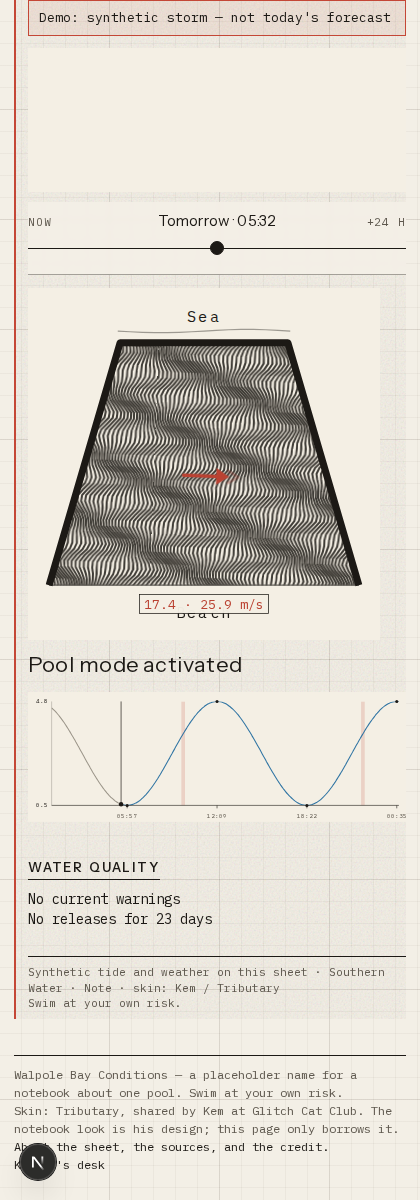
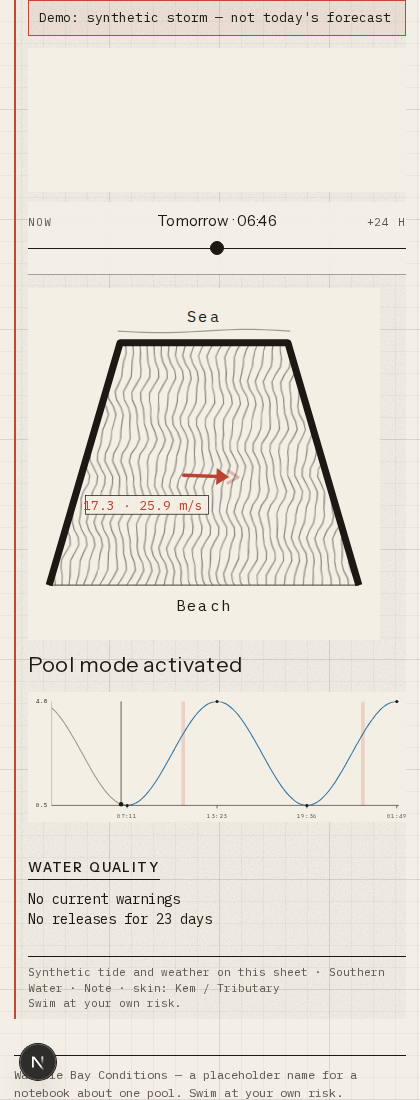
Sea wash over wall, gradual beach, airier plan chop
Split cross-section wave strokes at the wall, fill the wall body with paper,
and draw sea-mode crest wash on top so water reads as overflowing the crest.
Restore the quadratic chalk beach profile from the first ink section.
Thin plan chop strokes and place wind speed beside the arrow again.

diff --git a/components/plan-view.tsx b/components/plan-view.tsx
@@ -44,60 +44,20 @@ function poolInteriorPath(corners: { nw: PlanPoint; ne: PlanPoint; se: PlanPoint
   return `${pathOf([nw, ne, se, sw])} Z`;
 }
 
-type SpeedLabelPlacement = { x: number; y: number; anchor: "middle"; width: number };
-
-const POOL_STROKE_CLEAR = 8;
-function pointInPlanPool(point: PlanPoint, poly: PlanPoint[]): boolean {
-  let inside = false;
-  for (let i = 0, j = poly.length - 1; i < poly.length; j = i++) {
-    const xi = poly[i].x;
-    const yi = poly[i].y;
-    const xj = poly[j].x;
-    const yj = poly[j].y;
-    const intersect =
-      yi > point.y !== yj > point.y && point.x < ((xj - xi) * (point.y - yi)) / (yj - yi + 1e-12) + xi;
-    if (intersect) inside = !inside;
-  }
-  return inside;
-}
-
-function speedLabelRect(box: SpeedLabelPlacement): { left: number; right: number; top: number; bottom: number } {
-  const left = box.x - box.width / 2;
-  return { left, right: left + box.width, top: box.y - 12, bottom: box.y + 4 };
-}
-
-function speedLabelOutsidePool(
-  bounds: { nw: PlanPoint; ne: PlanPoint; se: PlanPoint; sw: PlanPoint },
+function speedLabelNearArrow(
+  at: PlanPoint,
+  travel: number,
+  meanPx: number,
   text: string,
-): SpeedLabelPlacement {
-  const width = Math.max(58, text.length * 6.4 + 14);
-  const poly = [bounds.nw, bounds.ne, bounds.se, bounds.sw];
-  const southY = Math.max(bounds.sw.y, bounds.se.y);
-  const box: SpeedLabelPlacement = { x: VIEW_W / 2, y: southY + POOL_STROKE_CLEAR + 12, anchor: "middle", width };
-
-  const clear = (rect: { left: number; right: number; top: number; bottom: number }): boolean => {
-    if (rect.top < southY + POOL_STROKE_CLEAR) return false;
-    const corners: PlanPoint[] = [
-      { x: rect.left, y: rect.top },
-      { x: rect.right, y: rect.top },
-      { x: rect.left, y: rect.bottom },
-      { x: rect.right, y: rect.bottom },
-      { x: (rect.left + rect.right) / 2, y: (rect.top + rect.bottom) / 2 },
-    ];
-    return corners.every((p) => !pointInPlanPool(p, poly));
-  };
-
-  let rect = speedLabelRect(box);
-  while (!clear(rect) && box.y < VIEW_H - 6) {
-    box.y += 2;
-    rect = speedLabelRect(box);
-  }
-  return box;
-}
-
-function planBeachLabelY(bounds: { sw: PlanPoint; se: PlanPoint }): number {
-  const southY = Math.max(bounds.sw.y, bounds.se.y);
-  return southY + 28;
+): { x: number; y: number; anchor: "start" | "end"; width: number } {
+  const width = Math.max(52, text.length * 6.2 + 12);
+  const rad = (travel * Math.PI) / 180;
+  const cross = rad + Math.PI / 2;
+  const side = 14 + meanPx * 0.38;
+  const labelX = at.x + Math.sin(cross) * side;
+  const labelY = at.y - Math.cos(cross) * side;
+  const anchor = Math.sin(cross) >= 0 ? "start" : "end";
+  return { x: labelX, y: labelY, anchor, width };
 }
 
 function WindGlyph({
@@ -105,13 +65,11 @@ function WindGlyph({
   travel,
   avgMs,
   gustMs,
-  bounds,
 }: {
   at: PlanPoint;
   travel: number;
   avgMs: number;
   gustMs: number | null;
-  bounds: { nw: PlanPoint; ne: PlanPoint; se: PlanPoint; sw: PlanPoint };
 }) {
   const mark = windGlyphMark(avgMs, gustMs);
   const { mean, gust, meanWidth, gustWidth, head, meanColour, gustColour } = mark;
@@ -122,8 +80,8 @@ function WindGlyph({
   const showGust = gust > mean + 0.5;
   const speedLabel = gustMs != null && gustMs > avgMs + 0.05 ? `${avgMs.toFixed(1)} · ${gustMs.toFixed(1)}` : avgMs.toFixed(1);
   const caption = `${speedLabel} m/s`;
-  const box = speedLabelOutsidePool(bounds, caption);
-  const rectX = box.x - box.width / 2;
+  const box = speedLabelNearArrow(at, travel, mean, caption);
+  const rectX = box.anchor === "start" ? box.x - 5 : box.x - box.width + 5;
   return (
     <>
       <g
@@ -150,7 +108,7 @@ function WindGlyph({
         <line x1={0} y1={tail} x2={0} y2={tip + head * 0.55} stroke={meanColour} strokeWidth={meanWidth} strokeLinecap="round" />
         <path d={`M 0 ${tip.toFixed(1)} L ${(-wing).toFixed(1)} ${(tip + head).toFixed(1)} H ${wing.toFixed(1)} Z`} fill={meanColour} />
       </g>
-      <g className="wind-speed-label" data-outside-pool="true">
+      <g className="wind-speed-label" data-near-arrow="true">
         <rect
           x={rectX}
           y={box.y - 12}
@@ -222,9 +180,9 @@ function RoughnessField({
       Math.hypot(se.x - mid.x, se.y - mid.y),
       Math.hypot(sw.x - mid.x, sw.y - mid.y),
     );
-    const half = reach * 2.35;
-    const stepY = 3;
-    const stepX = 4;
+    const half = reach * 2.1;
+    const stepY = 7;
+    const stepX = 9;
 
     for (let ly = -half; ly <= half; ly += stepY) {
       let rough = 0;
@@ -232,15 +190,15 @@ function RoughnessField({
         const sample = roughnessAt(localToPlan(lx, ly, mid, travel, layout), chopLevel, quietForRough);
         rough = Math.max(rough, sample + windBoost * (1 - sample * 0.35));
       }
-      if (rough < 0.05) continue;
-      const amp = (0.85 + rough * 3.1) * (1 + windBoost * 0.5);
-      const drift = phase + ly * 0.05;
-      const d = waveScanline(-half, half, ly, amp, drift, 3 + rough * 2);
+      if (rough < 0.08) continue;
+      const amp = (0.55 + rough * 2.2) * (1 + windBoost * 0.35);
+      const drift = phase + ly * 0.04;
+      const d = waveScanline(-half, half, ly, amp, drift, 5 + rough * 1.5);
       if (d) {
         rows.push({
           d,
-          opacity: Math.min(0.92, 0.3 + rough * 0.62),
-          width: 0.9 + rough * 0.75,
+          opacity: Math.min(0.52, 0.14 + rough * 0.38),
+          width: 0.55 + rough * 0.45,
         });
       }
     }
@@ -345,19 +303,11 @@ function PlanDrawing({
         opacity={submerged ? 0.5 : 1}
       />
       <path d={`M ${label(sw)} L ${label(se)}`} fill="none" stroke={INK} strokeWidth="1" opacity="0.65" />
-      <text
-        x={VIEW_W / 2}
-        y={planBeachLabelY({ sw, se })}
-        textAnchor="middle"
-        fill={INK}
-        fontSize="13"
-        fontFamily={FONT}
-        letterSpacing="0.14em"
-      >
+      <text x={VIEW_W / 2} y={sw.y + 22} textAnchor="middle" fill={INK} fontSize="13" fontFamily={FONT} letterSpacing="0.14em">
         Beach
       </text>
       {travel != null && avgMs != null ? (
-        <WindGlyph at={mid} travel={travel} avgMs={avgMs} gustMs={gustMs} bounds={{ nw, ne, se, sw }} />
+        <WindGlyph at={mid} travel={travel} avgMs={avgMs} gustMs={gustMs} />
       ) : null}
     </svg>
   );

diff --git a/components/section-canvas.tsx b/components/section-canvas.tsx
@@ -3,6 +3,8 @@
 import { useEffect, useRef } from "react";
 import {
   RATIO_SUM,
+  WALL_U0,
+  WALL_U1,
   chalkSchematic,
   chopMotion,
   frameLevels,
@@ -82,9 +84,9 @@ function chopOffset(u: number, timeS: number, level: SectionInput["chopLevel"], 
 }
 
 function biasAt(u: number, pool: number, sea: number): number {
-  if (u <= 7.5) return pool;
-  if (u >= 8.1) return sea;
-  return pool + ((sea - pool) * (u - 7.5)) / 0.6;
+  if (u <= WALL_U0) return pool;
+  if (u >= WALL_U1) return sea;
+  return pool + ((sea - pool) * (u - WALL_U0)) / (WALL_U1 - WALL_U0);
 }
 
 function makeGrain(w: number, h: number): HTMLCanvasElement {
@@ -149,19 +151,19 @@ function paint(
   ctx.drawImage(grain, 0, 0, bw, bh);
   ctx.setTransform(dpr * scale, 0, 0, dpr * scale, 0, 0);
 
-  stroke(ctx, chalkPoints(0, 7.5, 0.06), 0.8, 0.16);
-  stroke(ctx, chalkPoints(8.1, RATIO_SUM, 0.06), 0.8, 0.16);
-  stroke(ctx, chalkPoints(0, 7.5, 0.12), 0.7, 0.09);
-  stroke(ctx, chalkPoints(8.1, RATIO_SUM, 0.12), 0.7, 0.09);
+  stroke(ctx, chalkPoints(0, WALL_U0, 0.06), 0.8, 0.16);
+  stroke(ctx, chalkPoints(WALL_U1, RATIO_SUM, 0.06), 0.8, 0.16);
+  stroke(ctx, chalkPoints(0, WALL_U0, 0.12), 0.7, 0.09);
+  stroke(ctx, chalkPoints(WALL_U1, RATIO_SUM, 0.12), 0.7, 0.09);
 
   const surface = (u: number) => {
     const bias = biasAt(u, section.poolBias, section.seaBias);
     const chop = chopOffset(u, timeS, section.chopLevel, bias);
     if (section.mode === "sea") {
-      const ampScale = u < 7.5 ? 0.5 + 0.5 * (u / 7.5) : 1;
+      const ampScale = u < WALL_U0 ? 0.5 + 0.5 * (u / WALL_U0) : 1;
       return section.seaDraw + swellOffset(u, timeS, section.waveAmp * ampScale, section.wavePeriodS) + chop;
     }
-    if (u < 7.5) {
+    if (u < WALL_U0) {
       if (section.mode === "pool" || section.mode === "falling") {
         return heldSurface(frame.pool, heldRipple(u, timeS, section.chopLevel, section.heldAmp));
       }
@@ -186,14 +188,29 @@ function paint(
     }
   };
 
-  if (section.mode === "sea") band(shore, RATIO_SUM);
-  else {
-    band(Math.min(shore, 7.5), 7.5);
-    band(8.1, RATIO_SUM);
+  band(Math.min(shore, WALL_U0), WALL_U0);
+  band(WALL_U1, RATIO_SUM);
+
+  const wallX = xOf(WALL_U0);
+  const wallW = xOf(WALL_U1) - wallX;
+  const wallY = yOf(1);
+  const wallH = yOf(-0.015) - wallY;
+
+  ctx.fillStyle = PAPER;
+  ctx.globalAlpha = 1;
+  ctx.fillRect(wallX, wallY, wallW, wallH);
+
+  if (section.mode === "sea") {
+    drawRuns(ctx, WALL_U0, WALL_U1, (u) => yOf(surface(u)), 1.35, 0.88);
+    for (let i = 1; i <= motion.lines; i++) {
+      const depth = 4 + i * 4;
+      const alpha = Math.max(0.08, 0.38 - i * 0.06);
+      drawRuns(ctx, WALL_U0, WALL_U1, (u) => yOf(surface(u)) + depth, 0.75, alpha);
+    }
   }
 
-  stroke(ctx, chalkPoints(0, 7.5, 0), 1.75, 0.95);
-  stroke(ctx, chalkPoints(8.1, RATIO_SUM, 0), 1.75, 0.95);
+  stroke(ctx, chalkPoints(0, WALL_U0, 0), 1.75, 0.95);
+  stroke(ctx, chalkPoints(WALL_U1, RATIO_SUM, 0), 1.75, 0.95);
 
   const dryUntil = shore;
   ctx.strokeStyle = INK;
@@ -219,25 +236,21 @@ function paint(
     ctx.lineWidth = 0.7;
     ctx.globalAlpha = 0.42 + frame.sheet * 0.35;
     ctx.beginPath();
-    ctx.moveTo(xOf(8.1), Math.min(ySea, yCrest));
-    ctx.lineTo(xOf(7.5), yCrest + 0.3);
+    ctx.moveTo(xOf(WALL_U1), Math.min(ySea, yCrest));
+    ctx.lineTo(xOf(WALL_U0), yCrest + 0.3);
     ctx.stroke();
     for (let i = 0; i < lines; i++) {
       const y0 = yCrest + 0.8 + i * 2.6;
       const y1 = y0 + 2.2;
-      const x1 = xOf(7.5) - reach * (0.78 + i * 0.06);
+      const x1 = xOf(WALL_U0) - reach * (0.78 + i * 0.06);
       ctx.beginPath();
-      ctx.moveTo(xOf(7.5), y0);
-      ctx.quadraticCurveTo(xOf(7.5) - reach * 0.4, y0 + 1.6, x1, Math.min(y1, yPool + 1.2));
+      ctx.moveTo(xOf(WALL_U0), y0);
+      ctx.quadraticCurveTo(xOf(WALL_U0) - reach * 0.4, y0 + 1.6, x1, Math.min(y1, yPool + 1.2));
       ctx.stroke();
     }
     ctx.globalAlpha = 1;
   }
 
-  const wallX = xOf(7.5);
-  const wallW = xOf(8.1) - wallX;
-  const wallY = yOf(1);
-  const wallH = yOf(-0.015) - wallY;
   ctx.strokeStyle = INK;
   ctx.globalAlpha = 1;
   ctx.lineWidth = 4.6;

diff --git a/lib/section-scene.ts b/lib/section-scene.ts
@@ -1,5 +1,5 @@
 import type { ChopLevel } from "./chop";
-import { SOFT_BEACH, WORKING_WALL } from "./geography";
+import { WORKING_WALL } from "./geography";
 
 /**
  * Schematic N–S section. Crest is 1. The chalk floor is 0.
@@ -8,23 +8,16 @@ import { SOFT_BEACH, WORKING_WALL } from "./geography";
  * wall in geography (crest minus inferred chalk). Horizontal ratios are
  * beach : pool : wall : sea. Wall thickness is exaggerated.
  *
- * The beach is a short rise, then a flat floor. A surveyed 12% over 35 m
- * would leave this frame, so the ink rise is capped. It is not a wedge
- * running down through the pool.
+ * Beach ink is a gradual quadratic slope from the landward lip down to the
+ * pool floor at the wall face — not a cliff step and flat shelf.
  */
 export const RATIO = { beach: 2.5, pool: 5, wall: 0.6, sea: 3.5 } as const;
 export const RATIO_SUM = RATIO.beach + RATIO.pool + RATIO.wall + RATIO.sea;
 export const HELD_FULL = 0.93;
 export const WALL_HEIGHT_M = WORKING_WALL.wallAboveChalkM;
 export const WALL_FACE_U = RATIO.beach + RATIO.pool + RATIO.wall;
-
-const CLIFF_RUN = 0.28;
-
-/** Page-fitted top of the soft beach, in schematic units. Crest is 1. */
-function inkBeachTop(): number {
-  const rise = (SOFT_BEACH.grade * SOFT_BEACH.runM) / WALL_HEIGHT_M;
-  return Math.min(1.12, 0.7 + rise * 0.19);
-}
+export const WALL_U0 = RATIO.beach + RATIO.pool;
+export const WALL_U1 = WALL_U0 + RATIO.wall;
 
 export type PictureMode = "pool" | "overflow" | "sea" | "falling";
 
@@ -70,26 +63,15 @@ const CANONICAL: Record<PictureMode, { sea: number; amp: number; period: number 
 const ONSHORE = new Set(["N", "NNE", "NE", "ENE", "NW", "NNW", "WNW"]);
 const SHELTER = new Set(["S", "SSE", "SSW", "SW", "WSW"]);
 
-/**
- * Chalk profile. A short cliff step, a beach down to the landward lip,
- * a flat pool floor, then a slight drop on the foreshore.
- */
+/** Soft chalk profile. Higher inland, easing to the floor at the wall, then a slight drop seaward. */
 export function chalkSchematic(u: number): number {
-  const lip = RATIO.beach;
-  const sea0 = RATIO.beach + RATIO.pool + RATIO.wall;
-  const beachTop = inkBeachTop();
-  const cliffTop = Math.min(1.42, beachTop + 0.26);
-  if (u <= 0) return cliffTop;
-  if (u < CLIFF_RUN) {
-    const t = u / CLIFF_RUN;
-    return cliffTop + (beachTop - cliffTop) * t;
+  if (u <= 0) return 1.22;
+  if (u < WALL_U0) {
+    const h = 1.22 - 0.339 * u + 0.0235 * u * u;
+    return h < 0 ? 0 : h;
   }
-  if (u < lip) {
-    const t = (u - CLIFF_RUN) / (lip - CLIFF_RUN);
-    return beachTop * (1 - t);
-  }
-  if (u <= sea0) return 0;
-  const t = Math.min(1, (u - sea0) / (RATIO_SUM - sea0));
+  if (u <= WALL_U1) return 0;
+  const t = Math.min(1, (u - WALL_U1) / (RATIO_SUM - WALL_U1));
   return -0.08 * t;
 }
 

diff --git a/lib/section-scene.test.ts b/lib/section-scene.test.ts
@@ -49,16 +49,16 @@ test("horizontal ratios are beach, pool, wall, sea", () => {
   assert.ok(Math.abs(edges.wallW / 1160 - 0.6 / 11.6) < 1e-9);
 });
 
-test("chalk is a short beach then a flat pool floor", () => {
+test("chalk is a gradual beach slope down to the wall", () => {
   assert.ok(chalkSchematic(0) > 1);
   assert.ok(chalkSchematic(0) < 1.5);
-  assert.equal(chalkSchematic(RATIO.beach), 0);
-  assert.equal(chalkSchematic(5), 0);
-  assert.equal(chalkSchematic(7.5), 0);
+  assert.ok(chalkSchematic(RATIO.beach) > 0.35 && chalkSchematic(RATIO.beach) < 0.65);
+  assert.ok(chalkSchematic(5) > 0.05 && chalkSchematic(5) < 0.2);
+  assert.ok(Math.abs(chalkSchematic(7.5)) < 0.02);
   assert.equal(chalkSchematic(8.1), 0);
   assert.ok(chalkSchematic(11.6) < 0 && chalkSchematic(11.6) > -0.2);
   let prev = chalkSchematic(0);
-  for (let u = 0.25; u <= RATIO.beach; u += 0.25) {
+  for (let u = 0.25; u <= 7.5; u += 0.25) {
     const h = chalkSchematic(u);
     assert.ok(h <= prev + 1e-9, `chalk rose at ${u}`);
     prev = h;
